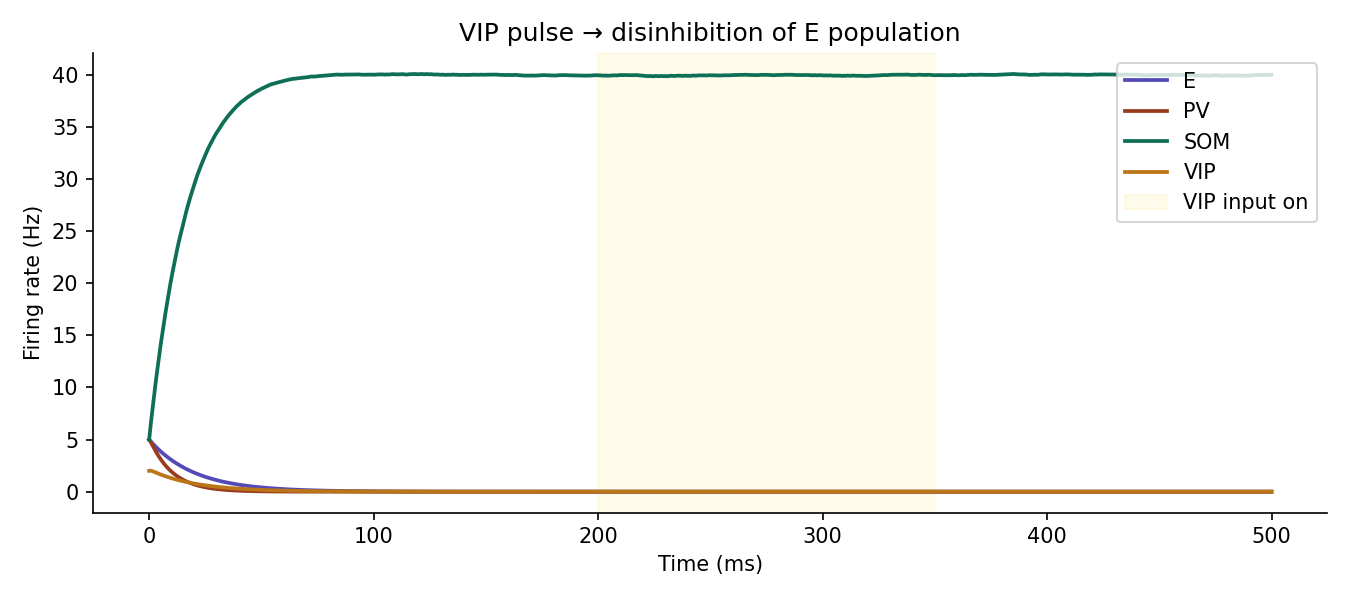
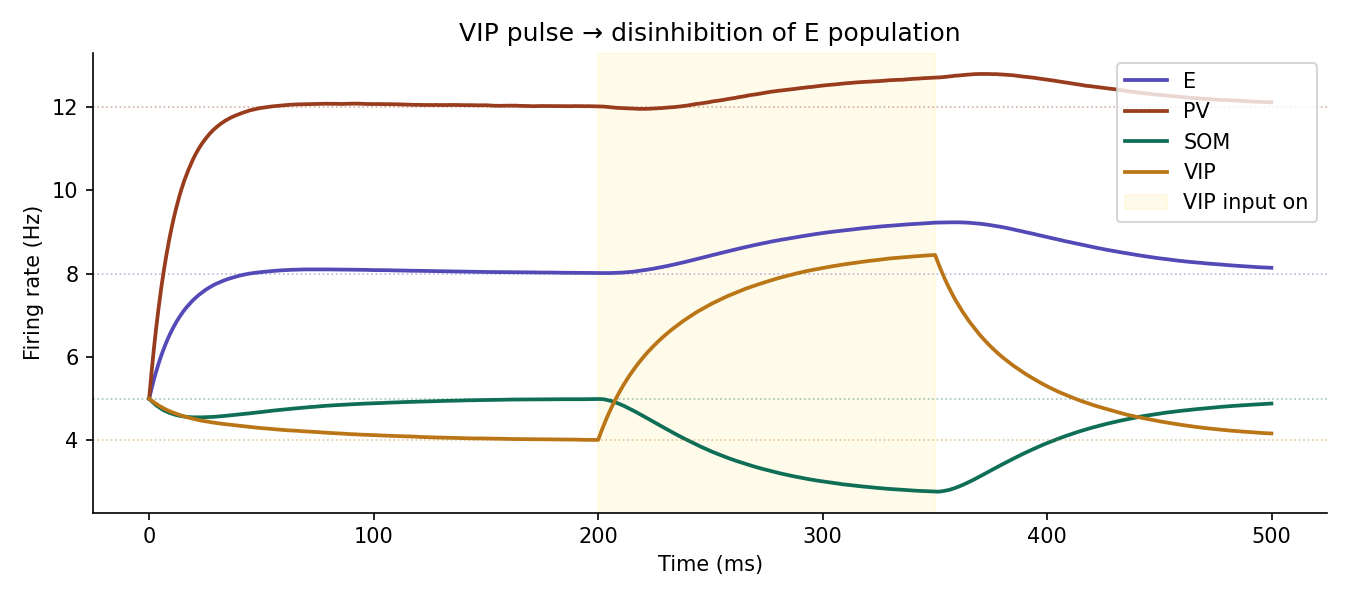
Added: stability and fixed point analysis, Changed:  parameters are now tuned for a stable system

diff --git a/main.py b/main.py
@@ -1,15 +1,14 @@
 import numpy as np
 import matplotlib.pyplot as plt
-from dataclasses import dataclass
+from scipy.optimize import fsolve
+
+# TODO: refactor: move W and h, ensure immutability of the parameters
  
- 
-# ── Connectivity matrix ───────────────────────────────────────────────────────
+# Connectivity matrix
 # W[i, j] = weight from population j → population i
-# Sign convention: positive = excitatory, negative = inhibitory
-# Populations indexed: 0=E, 1=PV, 2=SOM, 3=VIP
 #
 # Derived from Pfeffer et al. 2013 + Litwin-Kumar et al. 2016
-# Key rules:
+# Additionally scaled so that for all eigenvalues: 0 < eign < 1
 #   PV  → E, PV (strong self-inhibition)
 #   SOM → E, PV, VIP (avoids SOM→SOM)
 #   VIP → SOM (strong), PV (weak)
@@ -17,57 +16,83 @@ from dataclasses import dataclass
  
 W = np.array([
     #  E      PV     SOM    VIP     ← presynaptic
-    [ 0.5,  -1.5,  -1.0,   0.0 ],  # E   (post)
-    [ 1.0,  -1.0,  -0.5,  -0.1 ],  # PV  (post)
-    [ 0.8,   0.0,   0.0,  -1.5 ],  # SOM (post) — SOM→SOM absent
-    [ 0.5,  -0.3,  -0.8,   0.0 ],  # VIP (post)
+    [ 0.6,  -0.5,  -0.4,   0.0 ],  # E   (post)
+    [ 0.7,  -0.2,  -0.2,  -0.1 ],  # PV  (post)
+    [ 0.3,   0.0,   0.0,  -0.6 ],  # SOM (post)
+    [ 0.2,  -0.1,  -0.6,   0.0 ],  # VIP (post)
 ])
-# Tweak these weights to explore gain modulation and disinhibitory gating.
-# The key ratio to play with: W[SOM, VIP] / W[E, SOM]
  
+# Neuron parameters
  
-# ── Neuron parameters ─────────────────────────────────────────────────────────
- 
-@dataclass
-class PopulationParams:
-    tau:        float   # time constant (ms)
-    r_max:      float   # max firing rate (Hz)
-    threshold:  float   # input threshold
-    gain:       float   # sigmoid gain
- 
- 
-PARAMS = {
-    "E":   PopulationParams(tau=20.0, r_max=100.0, threshold=0.0, gain=1.2),
-    "PV":  PopulationParams(tau=10.0, r_max=150.0, threshold=0.0, gain=1.5),
-    "SOM": PopulationParams(tau=25.0, r_max=80.0,  threshold=0.0, gain=1.0),
-    "VIP": PopulationParams(tau=20.0, r_max=80.0,  threshold=0.0, gain=1.0),
-}
 POP_NAMES = ["E", "PV", "SOM", "VIP"]
+TAU = np.array([20.0, 10.0, 25.0, 20.0]) # Time constants
+R_TARGET = np.array([8.0, 12.0, 5.0, 4.0]) # Firing rate targets
+
+#
+
+h = (np.eye(len(W[0,:])) - W) @ R_TARGET
  
- 
-# ── Transfer function ─────────────────────────────────────────────────────────
+# Transfer function
  
 def sigmoid(x, r_max, threshold, gain):
     """Rectified sigmoid transfer function (firing rate nonlinearity)."""
     return r_max / (1.0 + np.exp(-gain * (x - threshold)))
+
+def relu(x):
+    """Threshold-linear transfer function (ReLu)."""
+    return np.maximum(0.0, x)
+
+
+# Fixed point and stability
+
+def find_fp(W, h, r0=None):
+    if r0 is None:
+        r0 = np.abs(np.linalg.solve(np.eye(len(W[0,:])) - W, h))
+
+    def residual(r):
+        return r - relu(W @ r + h)
+    
+    r_star = fsolve(residual, r0)
+    return relu(r_star)
+
+def jacobian(W, r_star):
+    D = np.diag((r_star > 1e-9).astype(float))
+    return np.diag(1.0 / TAU) @ (D @ W - np.eye(len(W[0,:])))
+
+def check_W(W):
+    """Report spectral radius and whether stable FP is guaranteed."""
+    eigs = np.linalg.eigvals(W)
+    sr   = np.max(np.real(eigs))
+    return sr, sr < 1.0
+
+def fp_report(W, h):
+    sr, ok = check_W(W)
+    r_star  = find_fp(W, h)
+    J       = jacobian(W, r_star)
+    jeigs   = np.linalg.eigvals(J)
+    stable  = np.all(np.real(jeigs) < 0)
+    h_ok    = np.all(h > 0)
+
+    print(f"W spectral radius:  {sr:.4f}  {'< 1' if ok else '>= 1 — FP may not exist!'}")
+    print(f"h all positive:     {'yes' if h_ok else 'NO! — reduce inhibitory weights or lower r_target'}")
+    print(f"Jacobian stability: {'STABLE' if stable else 'UNSTABLE'}\n")
+    print("Baseline firing rates:")
+    for name, r, rt in zip(POP_NAMES, r_star, h + W @ r_star):
+        flag = " ← dead" if r < 0.1 else ""
+        print(f"  {name:4s}: {r:6.2f} Hz{flag}")
+    return r_star, stable
  
- 
-def transfer(x, pop: str):
-    p = PARAMS[pop]
-    return sigmoid(x, p.r_max, p.threshold, p.gain)
- 
- 
-# ── Simulation ────────────────────────────────────────────────────────────────
- 
+
+# Simulation
+
 def run_simulation(
     T:           float = 500.0,   # total time (ms)
     dt:          float = 0.1,     # time step (ms)
-    I_ff:        float = 2.0,     # feedforward input to E (sensory drive)
     I_td:        float = 0.0,     # top-down modulatory input to VIP
     I_td_onset:  float = 200.0,   # time VIP modulation turns on
     I_td_offset: float = 350.0,   # time VIP modulation turns off
-    noise_std:   float = 0.05,    # additive noise std
-    r0:          np.ndarray = None,  # initial firing rates [E, PV, SOM, VIP]
+    noise_std:   float = 0.2,    # additive noise std
+    r0:          np.ndarray = None  # initial firing rates [E, PV, SOM, VIP] # pyright: ignore[reportArgumentType]
 ):
     """
     Run Wilson-Cowan rate dynamics.
@@ -76,37 +101,36 @@ def run_simulation(
         t    — time vector [N]
         R    — firing rates [N, 4] — columns: E, PV, SOM, VIP
     """
+    rng = np.random.default_rng(42) 
+
     n_steps = int(T / dt)
     t = np.arange(n_steps) * dt
  
     R = np.zeros((n_steps, 4))
-    R[0] = r0 if r0 is not None else np.array([5.0, 5.0, 5.0, 2.0])
+    R[0] = np.array([5.0, 5.0, 5.0, 5.0]) if r0 is None else r0
  
     for i in range(n_steps - 1):
         r = R[i]
  
         # external inputs
-        I_ext = np.zeros(4)
-        I_ext[0] = I_ff                                        # sensory → E
-        I_ext[3] = I_td if I_td_onset <= t[i] <= I_td_offset else 0.0
+        I_ext = np.zeros(4)                                
+        I_ext[3] = I_td if I_td_onset <= t[i] <= I_td_offset else 0.0 # td input to VIP
  
         # total synaptic input to each population
-        I_syn = W @ r + I_ext
+        I_syn = W @ r + h + I_ext
  
         # noise
-        I_syn += np.random.randn(4) * noise_std
+        I_syn += rng.normal(0.0, noise_std, 4)
  
         # Wilson-Cowan update: tau * dr/dt = -r + F(I_syn)
-        for k, name in enumerate(POP_NAMES):
-            tau = PARAMS[name].tau
-            dr  = (-r[k] + transfer(I_syn[k], name)) / tau
-            R[i + 1, k] = r[k] + dt * dr
+        dr       = (-r + relu(I_syn)) / TAU
+        R[i + 1] = np.maximum(0.0, r + dt * dr)
  
-    R = np.clip(R, 0, None)     # firing rates are non-negative
+    R = np.clip(R, 0, None)     # firing rates must be non-negative
     return t, R
  
  
-# ── Analysis helpers ──────────────────────────────────────────────────────────
+# Analysis helpers
  
 def run_vip_sweep(I_td_values, **sim_kwargs):
     """
@@ -121,7 +145,7 @@ def run_vip_sweep(I_td_values, **sim_kwargs):
     return steady
  
  
-# ── Plotting ──────────────────────────────────────────────────────────────────
+# Plotting
  
 COLORS = {
     "E": "#534AB7",    # purple
@@ -130,11 +154,13 @@ COLORS = {
     "VIP": "#BA7517",  # amber
 }
  
- 
-def plot_timecourse(t, R, I_td_onset=200.0, I_td_offset=350.0, title=""):
+def plot_timecourse(t, h, R, I_td_onset=200.0, I_td_offset=350.0, title=""):
+    r_fp = find_fp(W, h, R[0,:])  
     fig, ax = plt.subplots(figsize=(9, 4))
     for k, name in enumerate(POP_NAMES):
         ax.plot(t, R[:, k], label=name, color=COLORS[name], lw=1.8)
+        ax.axhline(r_fp[k], color=COLORS[name], lw=0.8, ls=":", alpha=0.4)
+
     ax.axvspan(I_td_onset, I_td_offset, alpha=0.08, color="gold",
                label="VIP input on")
     ax.set_xlabel("Time (ms)")
@@ -163,41 +189,42 @@ def plot_gain_curve(I_td_values, steady):
     return fig
  
  
-# ── Main ──────────────────────────────────────────────────────────────────────
- 
+# Main
 def main():
-    # ── Experiment 1: time course with VIP pulse
-    print("Running experiment 1: transient VIP modulation...")
-    t, R = run_simulation(
-        T=500.0, dt=0.1,
-        I_ff=2.0,
-        I_td=3.0, I_td_onset=200.0, I_td_offset=350.0,
-        noise_std=0.05,
-    )
-    fig1 = plot_timecourse(t, R, title="VIP pulse → disinhibition of E population")
-    fig1.savefig("figures/exp1_timecourse.png", dpi=150)
-    print("  → Saved exp1_timecourse.png")
- 
-    # ── Experiment 2: gain curve (steady-state E rate vs VIP drive)
-    print("Running experiment 2: VIP gain sweep...")
-    I_td_values = np.linspace(0, 6, 60)
-    steady = run_vip_sweep(I_td_values, I_ff=2.0)
-    fig2 = plot_gain_curve(I_td_values, steady)
-    fig2.savefig("figures/exp2_gain_curve.png", dpi=150)
-    print("  → Saved exp2_gain_curve.png")
- 
-    # ── Experiment 3: compare no-VIP vs strong-VIP steady state
+    # Pre-experiment analysis: fixed points and stability
+    fp_report(W,h)
+
+    # Experiment 1 (Sanity  check): compare no-VIP vs strong-VIP steady state
     print("\nSteady-state rates (no VIP input):")
-    _, R_base = run_simulation(T=300, I_ff=2.0, I_td=0.0,
+    _, R_base = run_simulation(T=300, I_td=0.0,
                                I_td_onset=999, noise_std=0.0)
     for k, name in enumerate(POP_NAMES):
         print(f"  {name}: {R_base[-1, k]:.1f} Hz")
  
     print("\nSteady-state rates (VIP input = 3.0):")
-    _, R_vip = run_simulation(T=300, I_ff=2.0, I_td=3.0,
+    _, R_vip = run_simulation(T=300, I_td=3.0,
                               I_td_onset=0, I_td_offset=300, noise_std=0.0)
     for k, name in enumerate(POP_NAMES):
         print(f"  {name}: {R_vip[-1, k]:.1f} Hz")
+
+    # Experiment 2: time course with VIP pulse
+    print("Running experiment 2: transient VIP modulation...")
+    t, R = run_simulation(
+        T=500.0, dt=0.1,
+        I_td=3.0, I_td_onset=200.0, I_td_offset=350.0,
+        noise_std=0.05,
+    )
+    fig1 = plot_timecourse(t, h, R, title="VIP pulse → disinhibition of E population")
+    fig1.savefig("figures/exp1_timecourse.png", dpi=150)
+    print("  → Saved exp1_timecourse.png")
+ 
+    # Experiment 3: gain curve (steady-state E rate vs VIP drive)
+    print("Running experiment 3: VIP gain sweep...")
+    I_td_values = np.linspace(0, 6, 60)
+    steady = run_vip_sweep(I_td_values)
+    fig2 = plot_gain_curve(I_td_values, steady)
+    fig2.savefig("figures/exp2_gain_curve.png", dpi=150)
+    print("  → Saved exp2_gain_curve.png")
  
     plt.show()
  
